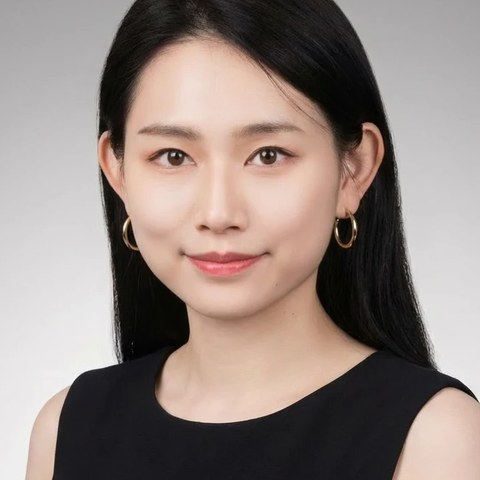
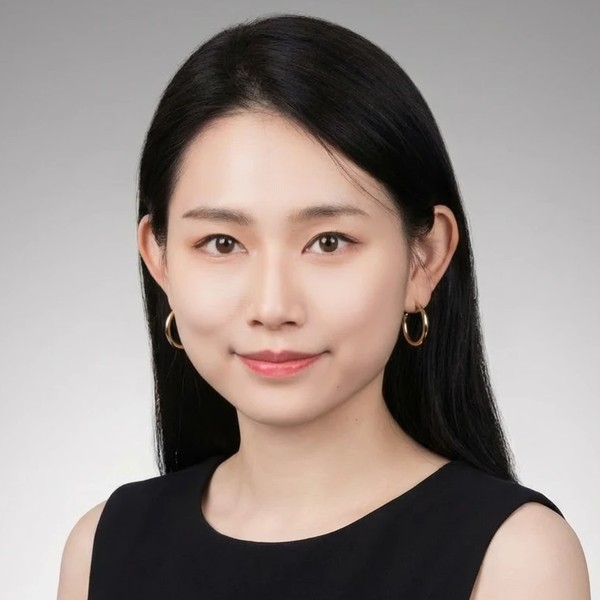
eleventh upload

diff --git a/index.html b/index.html
@@ -47,10 +47,12 @@ nav a:hover{color:var(--accent-ink)}
 /* hero */
 .hero{display:grid;grid-template-columns:1.05fr .95fr;gap:clamp(2rem,5vw,4rem);
   padding-block:clamp(2.5rem,6vw,4.5rem) 1rem;align-items:start}
-.avatar{width:clamp(84px,10vw,104px);height:clamp(84px,10vw,104px);border-radius:50%;
-  object-fit:cover;object-position:50% 22%;display:block;
+.namerow{display:flex;align-items:center;gap:clamp(.9rem,2.4vw,1.5rem);margin-top:1.1rem}
+.namerow h1{margin-top:0}
+.avatar{width:clamp(104px,14vw,152px);height:clamp(104px,14vw,152px);border-radius:50%;
+  object-fit:cover;display:block;flex:none;
   box-shadow:0 0 0 1px color-mix(in srgb,var(--ink) 14%,transparent),
-             0 8px 24px color-mix(in srgb,var(--ink) 12%,transparent)}
+             0 10px 30px color-mix(in srgb,var(--ink) 14%,transparent)}
 h1{font-size:clamp(3.2rem,9vw,5.2rem);font-weight:800;letter-spacing:-.035em;
   line-height:.98;margin-top:1.1rem}
 .subtitle{font-family:var(--mono);font-size:clamp(1rem,2.6vw,1.22rem);
@@ -65,8 +67,8 @@ h1{font-size:clamp(3.2rem,9vw,5.2rem);font-weight:800;letter-spacing:-.035em;
 .btn:hover{filter:brightness(1.06)}
 
 /* evidence grid */
-.ev-label{font-family:var(--mono);font-size:.68rem;letter-spacing:.2em;
-  text-transform:uppercase;color:var(--muted);margin-bottom:.85rem}
+.ev-label{font-size:.82rem;line-height:1.4;color:var(--muted);
+  margin-bottom:.9rem;max-width:40ch}
 .ev-grid{display:grid;grid-template-columns:1fr 1fr;gap:.9rem}
 .ev{background:var(--card);border:1px solid var(--rule);border-left:3px solid var(--k);
   border-radius:4px;padding:.95rem 1rem 1rem;min-width:0}
@@ -141,6 +143,9 @@ footer{border-top:1px solid var(--rule);padding-block:1.8rem 3.5rem;
   .hero{grid-template-columns:1fr;gap:2.4rem}
   .ev-grid{grid-template-columns:1fr 1fr}
 }
+@media (max-width:560px){
+  .namerow{flex-direction:column;align-items:flex-start;gap:1.05rem}
+}
 @media (max-width:460px){.ev-grid{grid-template-columns:1fr}}
 @media (prefers-reduced-motion:reduce){*{transition:none!important;animation:none!important}}
 </style>
@@ -158,9 +163,11 @@ footer{border-top:1px solid var(--rule);padding-block:1.8rem 3.5rem;
 
 <div class="hero">
   <div>
-    <img class="avatar" src="icho.jpg" width="480" height="480"
-         alt="Portrait of Zimin (Icho) Cai">
-    <h1>Icho Cai</h1>
+    <div class="namerow">
+      <img class="avatar" src="icho.jpg" width="600" height="600"
+           alt="Portrait of Zimin (Icho) Cai">
+      <h1>Icho Cai</h1>
+    </div>
     <p class="subtitle">Data Analytics &amp; Engineering</p>
     <p class="lede">I build data systems, and the proof that you can trust
       what they produce.</p>
@@ -180,28 +187,28 @@ footer{border-top:1px solid var(--rule);padding-block:1.8rem 3.5rem;
   </div>
 
   <div>
-    <p class="ev-label">Evidence trace</p>
+    <p class="ev-label">From CanadaBuys, the federal contract data quality project below</p>
     <div class="ev-grid">
       <div class="ev" style="--k:var(--c1)">
-        <span class="k">CanadaBuys · scale</span>
+        <span class="k">scale</span>
         <p class="n">506,847</p>
         <p class="w">records checked</p>
         <p class="f">2009&ndash;2026 · 91 columns · two source systems</p>
       </div>
       <div class="ev" style="--k:var(--c2)">
-        <span class="k">CanadaBuys · rigour</span>
+        <span class="k">rigour</span>
         <p class="n">15 / 15</p>
         <p class="w">broken-on-purpose tests</p>
         <p class="f">Each control has a case that makes it fail</p>
       </div>
       <div class="ev" style="--k:var(--c4)">
-        <span class="k">CanadaBuys · finding</span>
+        <span class="k">finding</span>
         <p class="n">CAD 6.09B</p>
         <p class="w">restated, not overwritten</p>
         <p class="f">13,218 records changed between two monthly files</p>
       </div>
       <div class="ev" style="--k:var(--c3)">
-        <span class="k">CanadaBuys · triage</span>
+        <span class="k">triage</span>
         <p class="n">126,708</p>
         <p class="w">rows sent to a human</p>
         <p class="f">No layer deletes a row · 650,571 explained cases filtered out</p>
